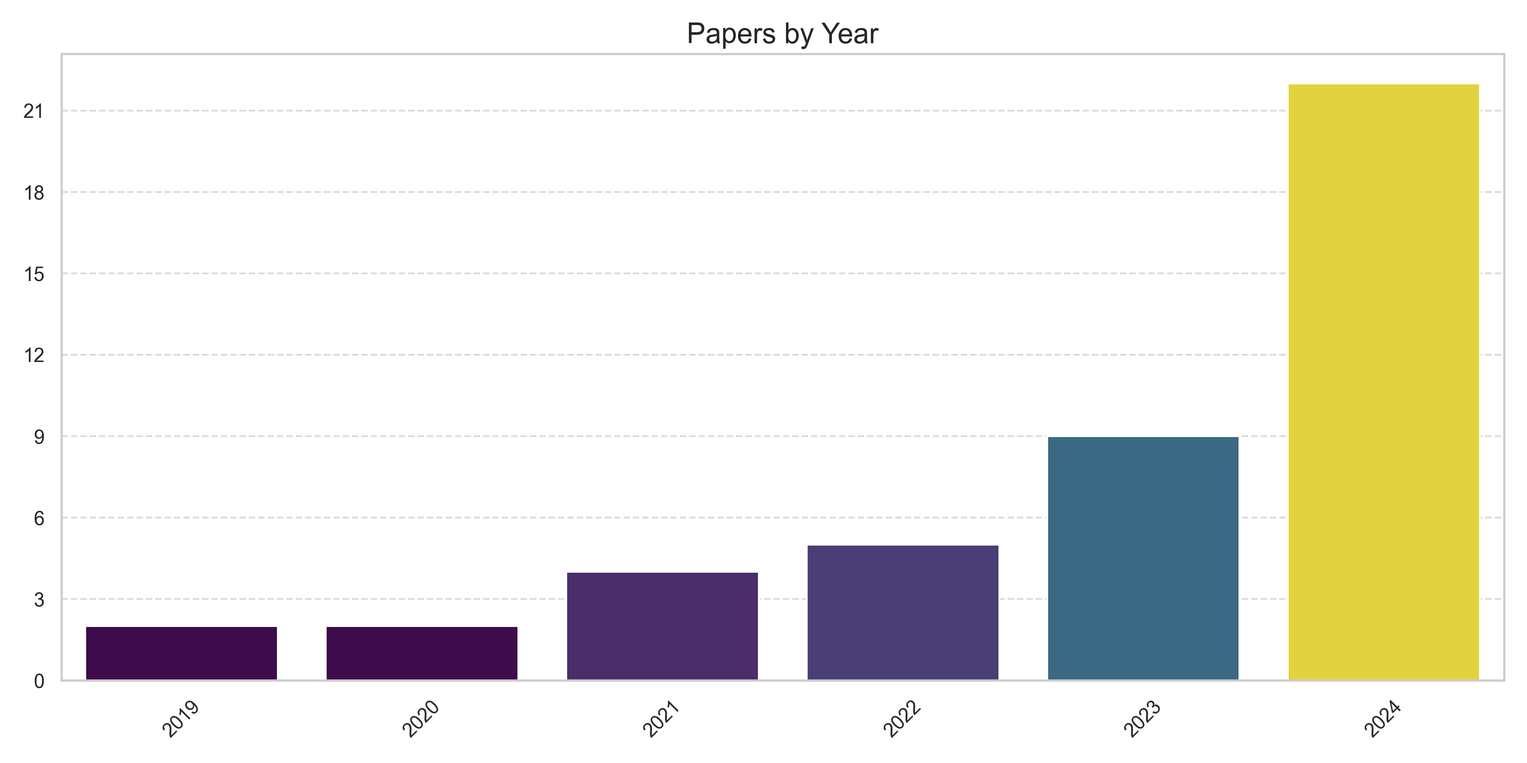
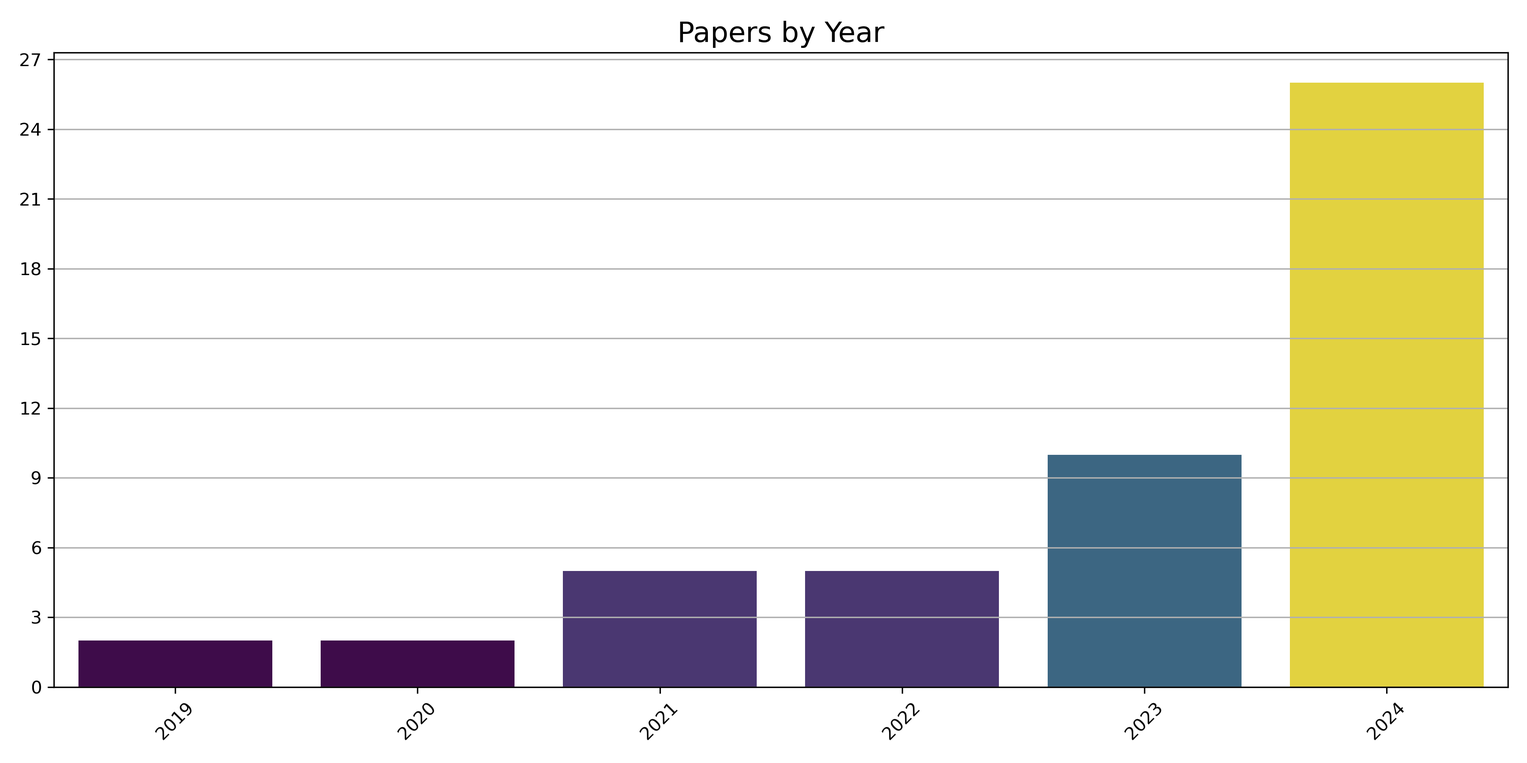
added new papers
- fixed broken Project and GitHub links, applied awesome standard

diff --git a/README.md b/README.md
@@ -1,9 +1,8 @@
 # Awesome 3D Scene Graphs  [![Awesome](https://awesome.re/badge.svg)](https://awesome.re) [![PR's Welcome](https://img.shields.io/badge/PRs-welcome-brightgreen.svg?style=flat)](http://makeapullrequest.com)
 
-## 🏠 About
 This is a curated list of papers on 3D Scene Graphs (3DSGs) generation and applications that utilize this particular data structure. These applications include, but are not limited to, autonomous navigation, robotic manipulation, object retrieval, scene understanding, hierarchical path planning, goal-directed navigation, long-term motion prediction, and multi-robot collaboration. 
 
-## 📑 Table of Content
+## 📑 Contents
 - [Awesome 3D Scene Graphs](#Awesome-3D-Scene-Graphs) 
 	- [3D Scene Understanding](#3D-Scene-Understanding) 🏛
 	- [Generation and Mapping](#Generation-and-Mapping) 🗺
@@ -15,71 +14,75 @@ This is a curated list of papers on 3D Scene Graphs (3DSGs) generation and appli
  The research papers have been categorized into different robotics macro areas by the project maintainers. If you notice any errors or believe that some papers are missing, please feel free to contribute or [contact me](https://dennisrotondi.com/#contact).
 
 ## 3D Scene Understanding
-| Date    | Publication   | Paper                                                                                                                              | Institute (first)   | Extra                                                                                                     |
-|:--------|:--------------|:-----------------------------------------------------------------------------------------------------------------------------------|:--------------------|:----------------------------------------------------------------------------------------------------------|
-| 2021-06 | CVPR21        | [Exploiting Edge-Oriented Reasoning for 3D Point-based Scene Graph Analysis](http://arxiv.org/abs/2103.05558v2)                    | USYD                | [project](https://sggpoint.github.io/), [github](https://github.com/chaoyivision/SGGpoint)                |
-| 2022-07 | RSS22         | [Extracting Zero-shot Common Sense from Large Language Models for Robot 3D Scene Understanding](http://arxiv.org/abs/2206.04585v2) | MIT                 | -                                                                                                         |
-| 2023-05 | ICRA23        | [3D VSG: Long-term Semantic Scene Change Prediction through 3D Variable Scene Graphs](http://arxiv.org/abs/2209.07896v2)           | ETH                 | [project](https://github.com/ethz-asl/3d_vsg)                                                             |
-| 2024-05 | RAL24         | [Long-Term Human Trajectory Prediction using 3D Dynamic Scene Graphs](http://arxiv.org/abs/2405.00552v1)                           | MIT                 | [project](https://github.com/MIT-SPARK/LP2)                                                               |
-| 2024-09 | Arxiv         | [SpotLight: Robotic Scene Understanding through Interaction and Affordance Detection](http://arxiv.org/abs/2409.11870v1)           | ETH                 | [project](https://timengelbracht.github.io/SpotLight/)                                                    |
-| 2024-10 | ECCV24        | [SceneGraphLoc: Cross-Modal Coarse Visual Localization on 3D Scene Graphs](https://arxiv.org/abs/2404.00469)                       | ETH                 | [project](https://scenegraphloc.github.io/)                                                               |
-| 2024-11 | CoRL24        | [RoboEXP: Action-Conditioned Scene Graph via Interactive Exploration for Robotic Manipulation](http://arxiv.org/abs/2402.15487v1)  | UIUC                | [project](https://jianghanxiao.github.io/roboexp-web/), [github](https://github.com/Jianghanxiao/RoboEXP) | 
+| Date    | Publication   | Paper                                                                                                                              | Institute (first)   | Extra                                                                                                          |
+|:--------|:--------------|:-----------------------------------------------------------------------------------------------------------------------------------|:--------------------|:---------------------------------------------------------------------------------------------------------------|
+| 2021-06 | CVPR21        | [Exploiting Edge-Oriented Reasoning for 3D Point-based Scene Graph Analysis](http://arxiv.org/abs/2103.05558v2)                    | USYD                | [Project](https://sggpoint.github.io/), [GitHub](https://github.com/chaoyivision/SGGpoint)                     |
+| 2022-07 | RSS22         | [Extracting Zero-shot Common Sense from Large Language Models for Robot 3D Scene Understanding](http://arxiv.org/abs/2206.04585v2) | MIT                 | -                                                                                                              |
+| 2023-05 | ICRA23        | [3D VSG: Long-term Semantic Scene Change Prediction through 3D Variable Scene Graphs](http://arxiv.org/abs/2209.07896v2)           | ETH                 | [GitHub](https://github.com/ethz-asl/3d_vsg)                                                                   |
+| 2024-05 | RAL24         | [Long-Term Human Trajectory Prediction using 3D Dynamic Scene Graphs](http://arxiv.org/abs/2405.00552v1)                           | MIT                 | [GitHub](https://github.com/MIT-SPARK/LP2)                                                                     |
+| 2024-09 | Arxiv         | [SpotLight: Robotic Scene Understanding through Interaction and Affordance Detection](http://arxiv.org/abs/2409.11870v1)           | ETH                 | [Project](https://timengelbracht.github.io/SpotLight/), [GitHub](https://github.com/timengelbracht/Spot-Light) |
+| 2024-10 | ECCV24        | [SceneGraphLoc: Cross-Modal Coarse Visual Localization on 3D Scene Graphs](https://arxiv.org/abs/2404.00469)                       | ETH                 | [Project](https://scenegraphloc.github.io/), [GitHub](https://github.com/y9miao/VLSG)                          |
+| 2024-11 | CoRL24        | [RoboEXP: Action-Conditioned Scene Graph via Interactive Exploration for Robotic Manipulation](http://arxiv.org/abs/2402.15487v1)  | UIUC                | [Project](https://jianghanxiao.github.io/roboexp-web/), [GitHub](https://github.com/Jianghanxiao/RoboEXP)      | 
 
 ## Generation and Mapping
 | Date    | Publication   | Paper                                                                                                                                                                                                                                                                         | Institute (first)   | Extra                                                                                                                                   |
 |:--------|:--------------|:------------------------------------------------------------------------------------------------------------------------------------------------------------------------------------------------------------------------------------------------------------------------------|:--------------------|:----------------------------------------------------------------------------------------------------------------------------------------|
-| 2019-11 | TOC19         | [3-D Scene Graph: A Sparse and Semantic Representation of Physical Environments for Intelligent Agents](http://arxiv.org/abs/1908.04929v1)                                                                                                                                    | KAIST               | [project](https://github.com/Uehwan/3-D-Scene-Graph)                                                                                    |
+| 2019-11 | TOC19         | [3-D Scene Graph: A Sparse and Semantic Representation of Physical Environments for Intelligent Agents](http://arxiv.org/abs/1908.04929v1)                                                                                                                                    | KAIST               | [GitHub](https://github.com/Uehwan/3-D-Scene-Graph)                                                                                     |
 | 2020-07 | RSS20         | [3D Dynamic Scene Graphs: Actionable Spatial Perception with Places, Objects, and Humans](http://arxiv.org/abs/2002.06289v2)                                                                                                                                                  | MIT                 | -                                                                                                                                       |
-| 2021-06 | CVPR21        | [SceneGraphFusion: Incremental 3D Scene Graph Prediction from RGB-D Sequences](http://arxiv.org/abs/2103.14898v3)                                                                                                                                                             | TUM                 | [project](https://shunchengwu.github.io/SceneGraphFusion), [github](https://github.com/ShunChengWu/SceneGraphFusion?tab=readme-ov-file) |
-| 2021-12 | NeurIPS21     | [Knowledge-inspired 3D Scene Graph Prediction in Point Cloud](https://openreview.net/pdf?id=OLyhLK2eQP)                                                                                                                                                                       | BUAA                | -                                                                                                                                       |
-| 2022-07 | RSS22         | [Hydra: A Real-time Spatial Perception System for 3D Scene Graph Construction and Optimization](http://arxiv.org/abs/2201.13360v2)                                                                                                                                            | MIT                 | [project](https://github.com/MIT-SPARK/Hydra)                                                                                           |
+| 2021-06 | CVPR21        | [SceneGraphFusion: Incremental 3D Scene Graph Prediction from RGB-D Sequences](http://arxiv.org/abs/2103.14898v3)                                                                                                                                                             | TUM                 | [Project](https://shunchengwu.github.io/SceneGraphFusion), [GitHub](https://github.com/ShunChengWu/SceneGraphFusion?tab=readme-ov-file) |
+| 2021-12 | NeurIPS21     | [Knowledge-inspired 3D Scene Graph Prediction in Point Cloud](https://proceedings.neurips.cc/paper_files/paper/2021/hash/9a555403384fc12f931656dea910e334-Abstract.html)                                                                                                      | BUAA                | -                                                                                                                                       |
+| 2021-12 | IJRR          | [Kimera: from SLAM to Spatial Perception with 3D Dynamic Scene Graphs](https://arxiv.org/abs/2101.06894)                                                                                                                                                                      | MIT                 | [GitHub](https://github.com/MIT-SPARK/Kimera)                                                                                           |
+| 2022-07 | RSS22         | [Hydra: A Real-time Spatial Perception System for 3D Scene Graph Construction and Optimization](http://arxiv.org/abs/2201.13360v2)                                                                                                                                            | MIT                 | [GitHub](https://github.com/MIT-SPARK/Hydra)                                                                                            |
 | 2022-11 | TVCG22        | [Explore Contextual Information for 3D Scene Graph Generation](http://arxiv.org/abs/2210.06240v2)                                                                                                                                                                             | DUT                 | -                                                                                                                                       |
-| 2023-06 | CVPR23        | [VL-SAT: Visual-Linguistic Semantics Assisted Training for 3D Semantic Scene Graph Prediction in Point Cloud](http://arxiv.org/abs/2303.14408v1)                                                                                                                              | BUAA                | [project](https://github.com/wz7in/CVPR2023-VLSAT)                                                                                      |
-| 2023-06 | CVPR23        | [3D Spatial Multimodal Knowledge Accumulation for Scene Graph Prediction in Point Cloud](https://ieeexplore.ieee.org/document/10204093)                                                                                                                                       | XDU                 | [project](https://cvpr.thecvf.com/virtual/2023/poster/23209)                                                                            |
+| 2023-06 | CVPR23        | [VL-SAT: Visual-Linguistic Semantics Assisted Training for 3D Semantic Scene Graph Prediction in Point Cloud](http://arxiv.org/abs/2303.14408v1)                                                                                                                              | BUAA                | [GitHub](https://github.com/wz7in/CVPR2023-VLSAT)                                                                                       |
+| 2023-06 | CVPR23        | [3D Spatial Multimodal Knowledge Accumulation for Scene Graph Prediction in Point Cloud](https://ieeexplore.ieee.org/document/10204093)                                                                                                                                       | XDU                 | [Project](https://cvpr.thecvf.com/virtual/2023/poster/23209)                                                                            |
 | 2023-08 | CASE23        | [3D Scene Graph Prediction on Point Clouds Using Knowledge Graphs](http://arxiv.org/abs/2308.06719v1)                                                                                                                                                                         | UCSD                | -                                                                                                                                       |
-| 2023-08 | RAL23         | [S-Graphs+: Real-time Localization and Mapping leveraging Hierarchical Representations](http://arxiv.org/abs/2212.11770v3)                                                                                                                                                    | UniLu               | [project](https://snt-arg.github.io/s_graphs_docker/), [github](https://github.com/snt-arg/s_graphs_docker)                             |
-| 2023-10 | ICCV23        | [SGAligner: 3D Scene Alignment with Scene Graphs](https://openaccess.thecvf.com/content/ICCV2023/html/Sarkar_SGAligner_3D_Scene_Alignment_with_Scene_Graphs_ICCV_2023_paper.html)                                                                                             | ETH                 | [project](https://sayands.github.io/sgaligner/)                                                                                         |
-| 2023-11 | CoRL23        | [Context-Aware Entity Grounding with Open-Vocabulary 3D Scene Graphs](http://arxiv.org/abs/2309.15940v1)                                                                                                                                                                      | Rutgers             | [project](https://ovsg-l.github.io/), [github](https://github.com/changhaonan/OVSG)                                                     |
-| 2024-01 | WACV24        | [SGRec3D: Self-Supervised 3D Scene Graph Learning via Object-Level Scene Reconstruction](http://arxiv.org/abs/2309.15702v2)                                                                                                                                                   | Bosch               | [project](https://kochsebastian.com/sgrec3d)                                                                                            |
-| 2024-02 | IJRR24        | [Foundations of Spatial Perception for Robotics: Hierarchical Representations and Real-time Systems](https://arxiv.org/abs/2305.07154)                                                                                                                                        | MIT                 | [project](https://github.com/MIT-SPARK/Hydra)                                                                                           |
-| 2024-02 | AAAI24        | [SGFormer: Semantic Graph Transformer for Point Cloud-based 3D Scene Graph Generation](http://arxiv.org/abs/2303.11048v3)                                                                                                                                                     | BJUT                | [project](https://github.com/Andy20178/SGFormer)                                                                                        |
-| 2024-03 | RAL24         | [Language-Grounded Dynamic Scene Graphs for Interactive Object Search with Mobile Manipulation](http://arxiv.org/abs/2403.08605v4)                                                                                                                                            | UniFreiburg         | [project](http://moma-llm.cs.uni-freiburg.de/), [github](https://github.com/robot-learning-freiburg/MoMa-LLM)                           |
-| 2024-03 | 3DV24         | [Lang3DSG: Language-based contrastive pre-training for 3D Scene Graph prediction](http://arxiv.org/abs/2310.16494v1)                                                                                                                                                          | Bosch               | [project](https://kochsebastian.com/lang3dsg)                                                                                           |
-| 2024-04 | RAL24         | [Clio: Real-time Task-Driven Open-Set 3D Scene Graphs](http://arxiv.org/abs/2404.13696v3)                                                                                                                                                                                     | MIT                 | [project](https://github.com/MIT-SPARK/Clio)                                                                                            |
-| 2024-05 | ICRA24        | [ConceptGraphs: Open-Vocabulary 3D Scene Graphs for Perception and Planning](http://arxiv.org/abs/2309.16650v1)                                                                                                                                                               | UToronto            | [project](https://concept-graphs.github.io/), [github](https://github.com/concept-graphs/concept-graphs)                                |
-| 2024-05 | IJCARS        | [Holistic OR domain modeling: a semantic scene graph approach](https://link.springer.com/article/10.1007/s11548-023-03022-w)                                                                                                                                                  | TUM                 | [project](https://github.com/egeozsoy/4D-OR)                                                                                            |
-| 2024-06 | CVPR24        | [Open3DSG: Open-Vocabulary 3D Scene Graphs from Point Clouds with Queryable Objects and Open-Set Relationships](http://arxiv.org/abs/2402.12259v2)                                                                                                                            | Bosch               | [project](https://kochsebastian.com/open3dsg), [github](https://github.com/boschresearch/Open3DSG)                                      |
+| 2023-08 | RAL23         | [S-Graphs+: Real-time Localization and Mapping leveraging Hierarchical Representations](http://arxiv.org/abs/2212.11770v3)                                                                                                                                                    | UniLu               | [Project](https://snt-arg.github.io/s_graphs_docker/), [GitHub](https://github.com/snt-arg/s_graphs_docker)                             |
+| 2023-10 | ICCV23        | [SGAligner: 3D Scene Alignment with Scene Graphs](https://openaccess.thecvf.com/content/ICCV2023/html/Sarkar_SGAligner_3D_Scene_Alignment_with_Scene_Graphs_ICCV_2023_paper.html)                                                                                             | ETH                 | [Project](https://sayands.github.io/sgaligner/)                                                                                         |
+| 2023-10 | IROS23        | [Hydra-Multi: Collaborative Online Construction of 3D Scene Graphs with Multi-Robot Teams](https://arxiv.org/abs/2304.13487)                                                                                                                                                  | MIT                 | -                                                                                                                                       |
+| 2023-11 | CoRL23        | [Context-Aware Entity Grounding with Open-Vocabulary 3D Scene Graphs](http://arxiv.org/abs/2309.15940v1)                                                                                                                                                                      | Rutgers             | [Project](https://ovsg-l.github.io/), [GitHub](https://github.com/changhaonan/OVSG)                                                     |
+| 2024-01 | WACV24        | [SGRec3D: Self-Supervised 3D Scene Graph Learning via Object-Level Scene Reconstruction](http://arxiv.org/abs/2309.15702v2)                                                                                                                                                   | Bosch               | [Project](https://kochsebastian.com/sgrec3d)                                                                                            |
+| 2024-02 | IJRR          | [Foundations of Spatial Perception for Robotics: Hierarchical Representations and Real-time Systems](https://arxiv.org/abs/2305.07154)                                                                                                                                        | MIT                 | [GitHub](https://github.com/MIT-SPARK/Hydra)                                                                                            |
+| 2024-02 | AAAI24        | [SGFormer: Semantic Graph Transformer for Point Cloud-based 3D Scene Graph Generation](http://arxiv.org/abs/2303.11048v3)                                                                                                                                                     | BJUT                | [GitHub](https://github.com/Andy20178/SGFormer)                                                                                         |
+| 2024-03 | RAL24         | [Language-Grounded Dynamic Scene Graphs for Interactive Object Search with Mobile Manipulation](http://arxiv.org/abs/2403.08605v4)                                                                                                                                            | UniFreiburg         | [Project](http://moma-llm.cs.uni-freiburg.de/), [GitHub](https://github.com/robot-learning-freiburg/MoMa-LLM)                           |
+| 2024-03 | 3DV24         | [Lang3DSG: Language-based contrastive pre-training for 3D Scene Graph prediction](http://arxiv.org/abs/2310.16494v1)                                                                                                                                                          | Bosch               | [Project](https://kochsebastian.com/lang3dsg)                                                                                           |
+| 2024-04 | RAL24         | [Clio: Real-time Task-Driven Open-Set 3D Scene Graphs](http://arxiv.org/abs/2404.13696v3)                                                                                                                                                                                     | MIT                 | [GitHub](https://github.com/MIT-SPARK/Clio)                                                                                             |
+| 2024-05 | ICRA24        | [ConceptGraphs: Open-Vocabulary 3D Scene Graphs for Perception and Planning](http://arxiv.org/abs/2309.16650v1)                                                                                                                                                               | UToronto            | [Project](https://concept-graphs.github.io/), [GitHub](https://github.com/concept-graphs/concept-graphs)                                |
+| 2024-05 | IJCARS        | [Holistic OR domain modeling: a semantic scene graph approach](https://link.springer.com/article/10.1007/s11548-023-03022-w)                                                                                                                                                  | TUM                 | [GitHub](https://github.com/egeozsoy/4D-OR)                                                                                             |
+| 2024-06 | CVPR24        | [Open3DSG: Open-Vocabulary 3D Scene Graphs from Point Clouds with Queryable Objects and Open-Set Relationships](http://arxiv.org/abs/2402.12259v2)                                                                                                                            | Bosch               | [Project](https://kochsebastian.com/open3dsg), [GitHub](https://github.com/boschresearch/Open3DSG)                                      |
 | 2024-06 | RAL24         | [Indoor and Outdoor 3D Scene Graph Generation via Language-Enabled Spatial Ontologies](http://arxiv.org/abs/2312.11713v2)                                                                                                                                                     | MIT                 | -                                                                                                                                       |
 | 2024-06 | CVPR24        | [CLIP-Driven Open-Vocabulary 3D Scene Graph Generation via Cross-Modality Contrastive Learning](https://openaccess.thecvf.com/content/CVPR2024/papers/Chen_CLIP-Driven_Open-Vocabulary_3D_Scene_Graph_Generation_via_Cross-Modality_Contrastive_Learning_CVPR_2024_paper.pdf) | ECNU                | -                                                                                                                                       |
-| 2024-10 | RAL24         | [OpenGraph: Open-Vocabulary Hierarchical 3D Graph Representation in Large-Scale Outdoor Environments](https://arxiv.org/abs/2403.09412)                                                                                                                                       | BIT                 | [project](https://github.com/BIT-DYN/OpenGraph)                                                                                         | 
+| 2024-10 | RAL24         | [OpenGraph: Open-Vocabulary Hierarchical 3D Graph Representation in Large-Scale Outdoor Environments](https://arxiv.org/abs/2403.09412)                                                                                                                                       | BIT                 | [GitHub](https://github.com/BIT-DYN/OpenGraph)                                                                                          |
+| 2024-12 | Arxiv         | [Lost & Found: Updating Dynamic 3D Scene Graphs from Egocentric Observations](http://arxiv.org/abs/2411.19162)                                                                                                                                                                | ETH                 | [Project](https://behretj.github.io/LostAndFound/), [GitHub](https://github.com/behretj/LostFound)                                      |
+| 2024-12 | Arxiv         | [The Bare Necessities: Designing Simple, Effective Open-Vocabulary Scene Graphs](https://arxiv.org/abs/2412.01539)                                                                                                                                                            | Oxford              | -                                                                                                                                       | 
 
 ## Navigation
 | Date    | Publication   | Paper                                                                                                                                                                        | Institute (first)   | Extra                                                                                                                |
 |:--------|:--------------|:-----------------------------------------------------------------------------------------------------------------------------------------------------------------------------|:--------------------|:---------------------------------------------------------------------------------------------------------------------|
-| 2022-05 | ICRA22        | [Hierarchical Representations and Explicit Memory: Learning Effective Navigation Policies on 3D Scene Graphs using Graph Neural Networks](http://arxiv.org/abs/2108.01176v2) | MIT                 | [project](https://github.com/MIT-TESSE/dsg-rl)                                                                       |
-| 2022-10 | IROS22        | [Situational Graphs for Robot Navigation in Structured Indoor Environments](http://arxiv.org/abs/2202.12197v2)                                                               | UniLu               | [project](https://snt-arg.github.io/s_graphs_docker/), [github](https://github.com/snt-arg/lidar_situational_graphs) |
+| 2022-05 | ICRA22        | [Hierarchical Representations and Explicit Memory: Learning Effective Navigation Policies on 3D Scene Graphs using Graph Neural Networks](http://arxiv.org/abs/2108.01176v2) | MIT                 | [GitHub](https://github.com/MIT-TESSE/dsg-rl)                                                                        |
+| 2022-10 | IROS22        | [Situational Graphs for Robot Navigation in Structured Indoor Environments](http://arxiv.org/abs/2202.12197v2)                                                               | UniLu               | [Project](https://snt-arg.github.io/s_graphs_docker/), [GitHub](https://github.com/snt-arg/lidar_situational_graphs) |
 | 2023-11 | RAL23         | [D-Lite: Navigation-Oriented Compression of 3D Scene Graphs for Multi-Robot Collaboration](http://arxiv.org/abs/2209.06111v6)                                                | MIT                 | -                                                                                                                    |
-| 2024-05 | ICRA24        | [Collaborative Dynamic 3D Scene Graphs for Automated Driving](http://arxiv.org/abs/2309.06635v3)                                                                             | UniFreiburg         | [project](http://curb.cs.uni-freiburg.de/), [github](https://github.com/robot-learning-freiburg/CURB-SG)             |
-| 2024-07 | RSS24         | [Hierarchical Open-Vocabulary 3D Scene Graphs for Language-Grounded Robot Navigation](http://arxiv.org/abs/2403.17846v2)                                                     | UniFreiburg         | [project](https://hovsg.github.io/), [github](https://github.com/hovsg/HOV-SG)                                       |
-| 2024-07 | Arxiv         | [Open Scene Graphs for Open World Object-Goal Navigation](http://arxiv.org/abs/2407.02473v1)                                                                                 | NUS                 | [project](https://open-scene-graphs.github.io/)                                                                      |
-| 2024-09 | Arxiv         | [Point2Graph: An End-to-end Point Cloud-based 3D Open-Vocabulary Scene Graph for Robot Navigation](http://arxiv.org/abs/2409.10350v1)                                        | UMich               | [project](https://point2graph.github.io/)                                                                            | 
+| 2024-05 | ICRA24        | [Collaborative Dynamic 3D Scene Graphs for Automated Driving](http://arxiv.org/abs/2309.06635v3)                                                                             | UniFreiburg         | [Project](http://curb.cs.uni-freiburg.de/), [GitHub](https://github.com/robot-learning-freiburg/CURB-SG)             |
+| 2024-07 | RSS24         | [Hierarchical Open-Vocabulary 3D Scene Graphs for Language-Grounded Robot Navigation](http://arxiv.org/abs/2403.17846v2)                                                     | UniFreiburg         | [Project](https://hovsg.github.io/), [GitHub](https://github.com/hovsg/HOV-SG)                                       |
+| 2024-07 | Arxiv         | [Open Scene Graphs for Open World Object-Goal Navigation](http://arxiv.org/abs/2407.02473v1)                                                                                 | NUS                 | [Project](https://open-scene-graphs.github.io/)                                                                      |
+| 2024-09 | Arxiv         | [Point2Graph: An End-to-end Point Cloud-based 3D Open-Vocabulary Scene Graph for Robot Navigation](http://arxiv.org/abs/2409.10350v1)                                        | UMich               | [Project](https://point2graph.github.io/)                                                                            |
+| 2024-12 | NeurIPS24     | [SG-Nav: Online 3D Scene Graph Prompting for LLM-based Zero-shot Object Navigation](https://arxiv.org/abs/2410.08189)                                                        | THU                 | [Project](https://bagh2178.github.io/SG-Nav/), [GitHub](https://github.com/bagh2178/SG-Nav)                          | 
 
 ## Planning
 | Date    | Publication   | Paper                                                                                                                                | Institute (first)   | Extra                                                                                                                                        |
 |:--------|:--------------|:-------------------------------------------------------------------------------------------------------------------------------------|:--------------------|:---------------------------------------------------------------------------------------------------------------------------------------------|
-| 2021-11 | CoRL21        | [TASKOGRAPHY: Evaluating robot task planning over large 3D scene graphs](http://arxiv.org/abs/2207.05006v1)                          | UToronto            | [project](https://taskography.github.io/), [github](https://github.com/taskography/taskography)                                              |
-| 2023-11 | CoRL23        | [SayPlan: Grounding Large Language Models using 3D Scene Graphs for Scalable Robot Task Planning](http://arxiv.org/abs/2307.06135v2) | QUT                 | [project](https://sayplan.github.io/)                                                                                                        |
-| 2024-05 | ICRA24        | [Optimal Scene Graph Planning with Large Language Model Guidance](http://arxiv.org/abs/2309.09182v2)                                 | UCSD                | [project](https://existentialrobotics.org/pages/llm-planning), [github](https://github.com/ExistentialRobotics/LLM-Scene-Graph-LTL-Planning) |
-| 2024-11 | CoRL24        | [DELTA: Decomposed Efficient Long-Term Robot Task Planning using Large Language Models](https://arxiv.org/pdf/2404.03275)            | Bosch               | -                                                                                                                                            | 
+| 2021-11 | CoRL21        | [TASKOGRAPHY: Evaluating robot task planning over large 3D scene graphs](http://arxiv.org/abs/2207.05006v1)                          | UToronto            | [Project](https://taskography.github.io/), [GitHub](https://github.com/taskography/taskography)                                              |
+| 2023-11 | CoRL23        | [SayPlan: Grounding Large Language Models using 3D Scene Graphs for Scalable Robot Task Planning](http://arxiv.org/abs/2307.06135v2) | QUT                 | [Project](https://sayplan.github.io/)                                                                                                        |
+| 2024-05 | ICRA24        | [Optimal Scene Graph Planning with Large Language Model Guidance](http://arxiv.org/abs/2309.09182v2)                                 | UCSD                | [Project](https://existentialrobotics.org/pages/llm-planning), [GitHub](https://github.com/ExistentialRobotics/LLM-Scene-Graph-LTL-Planning) |
+| 2024-11 | CoRL24        | [DELTA: Decomposed Efficient Long-Term Robot Task Planning using Large Language Models](https://arxiv.org/abs/2404.03275)            | Bosch               | -                                                                                                                                            |
+| 2024-12 | ISRR24        | [Task and Motion Planning in Hierarchical 3D Scene Graphs](https://arxiv.org/abs/2403.08094)                                         | MIT                 | -                                                                                                                                            | 
 
 ## Dataset
 | Date    | Publication   | Paper                                                                                                        | Institute (first)   | Extra                                                                                               |
 |:--------|:--------------|:-------------------------------------------------------------------------------------------------------------|:--------------------|:----------------------------------------------------------------------------------------------------|
-| 2019-10 | ICCV19        | [3D Scene Graph: A Structure for Unified Semantics, 3D Space, and Camera](http://arxiv.org/abs/1910.02527v1) | Stanford            | [project](https://3dscenegraph.stanford.edu/), [github](https://github.com/StanfordVL/3DSceneGraph) |
-| 2020-06 | CVPR20        | [Learning 3D Semantic Scene Graphs from 3D Indoor Reconstructions](http://arxiv.org/abs/2004.03967v1)        | TUM                 | [project](https://3dssg.github.io/)                                                                 |                                                                 | 
+| 2019-10 | ICCV19        | [3D Scene Graph: A Structure for Unified Semantics, 3D Space, and Camera](http://arxiv.org/abs/1910.02527v1) | Stanford            | [Project](https://3dscenegraph.stanford.edu/), [GitHub](https://github.com/StanfordVL/3DSceneGraph) |
+| 2020-06 | CVPR20        | [Learning 3D Semantic Scene Graphs from 3D Indoor Reconstructions](http://arxiv.org/abs/2004.03967v1)        | TUM                 | [Project](https://3dssg.github.io/), [GitHub](https://github.com/3DSSG/3DSSG.github.io)             | 
 
 ## Statistics
 ![plots/papers_by_year](plots/papers_by_year.png)
 ![papers_by_publication](plots/papers_by_publication.png)
-## Acknowledgement
-This project was inspired by [Awesome-LLM-3D](https://github.com/ActiveVisionLab/Awesome-LLM-3D). You can use [awesome-scene-graph](https://github.com/mqjyl/awesome-scene-graph) for 2D resources. 

diff --git a/contributing.md b/contributing.md
@@ -1,0 +1,14 @@
+# Contribution Guidelines
+
+To add, remove, or change things on this repository please submit a pull request. Please follow the existing format to add new terms.
+
+The date should reflect the conference or journal where it was published. Please follow the existing format to add new terms, and only the first affiliation is required.
+
+Thank you for your suggestions!
+
+## Updating your PR
+
+A lot of times, making a PR adhere to the standards above can be difficult. 
+If the maintainers notice anything that we'd like changed, we'll ask you to edit your PR before we merge it. 
+There's no need to open a new PR, just edit the existing one. 
+If you're not sure how to do that, [here is a guide](https://github.com/RichardLitt/knowledge/blob/master/github/amending-a-commit-guide.md) on the different ways you can update your PR so that we can merge it.
